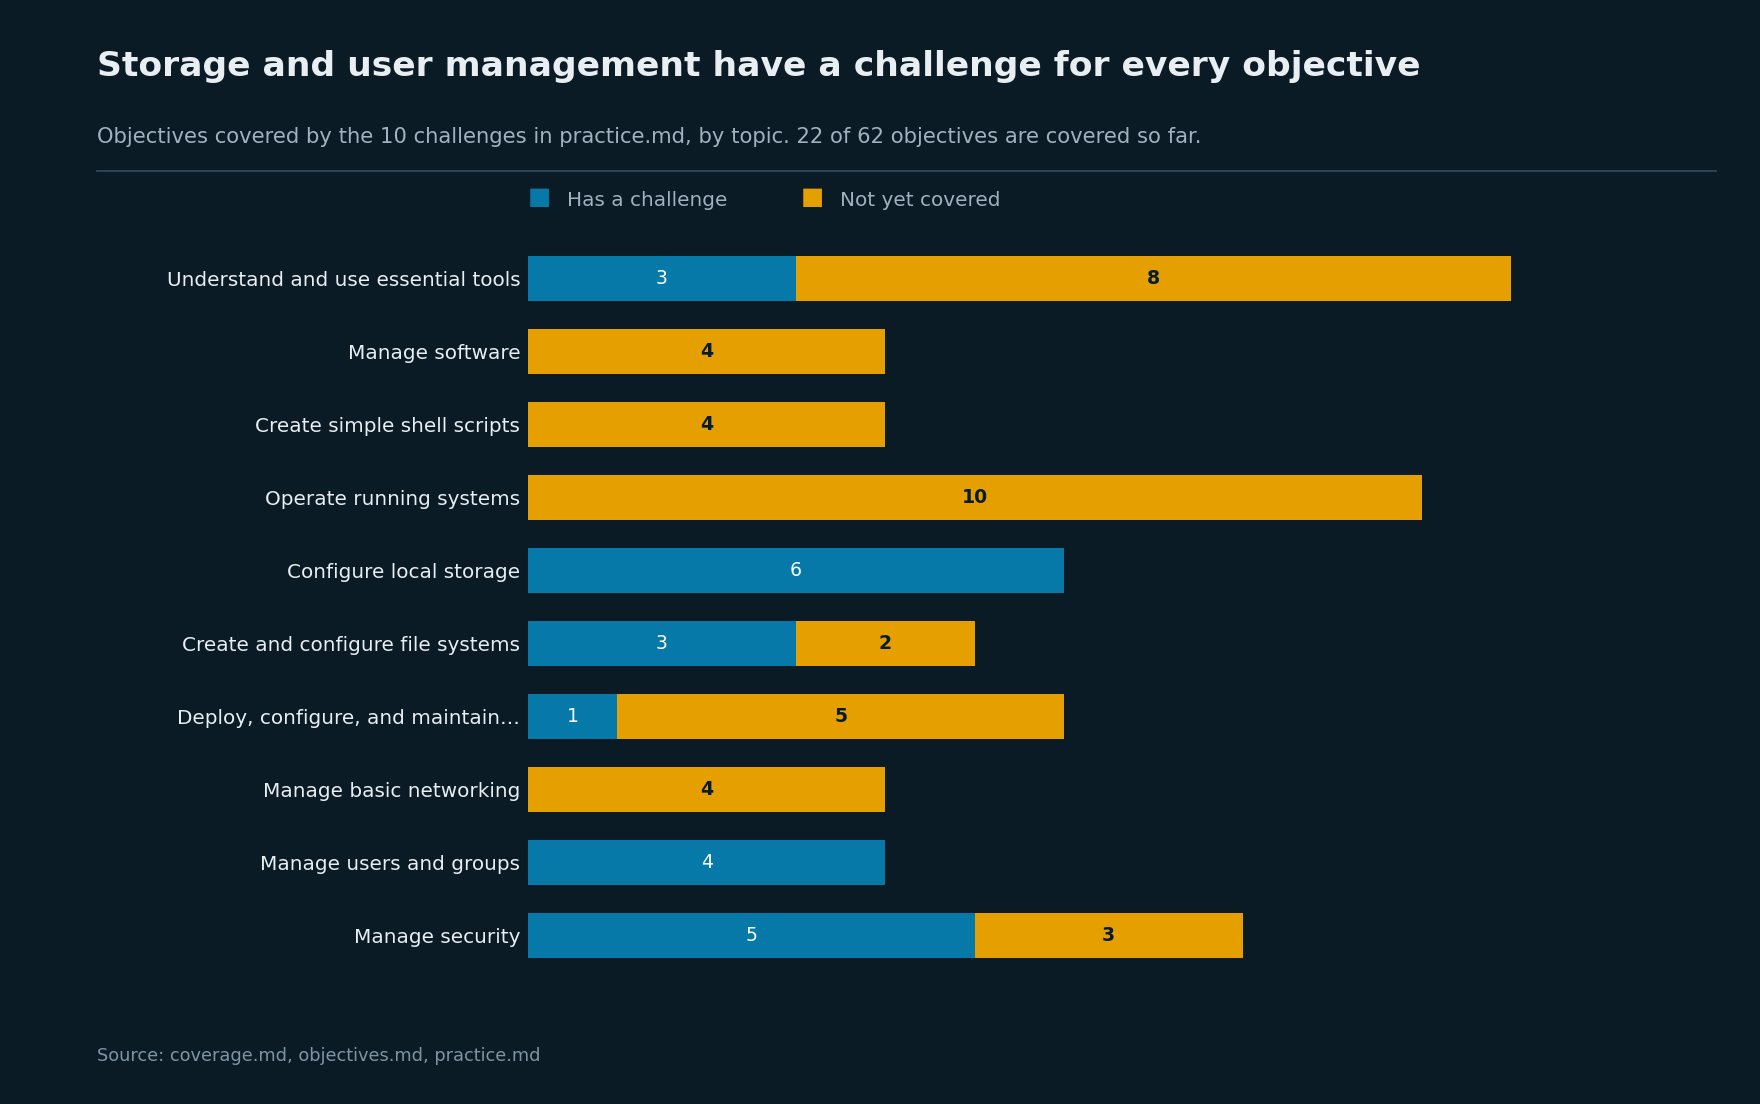
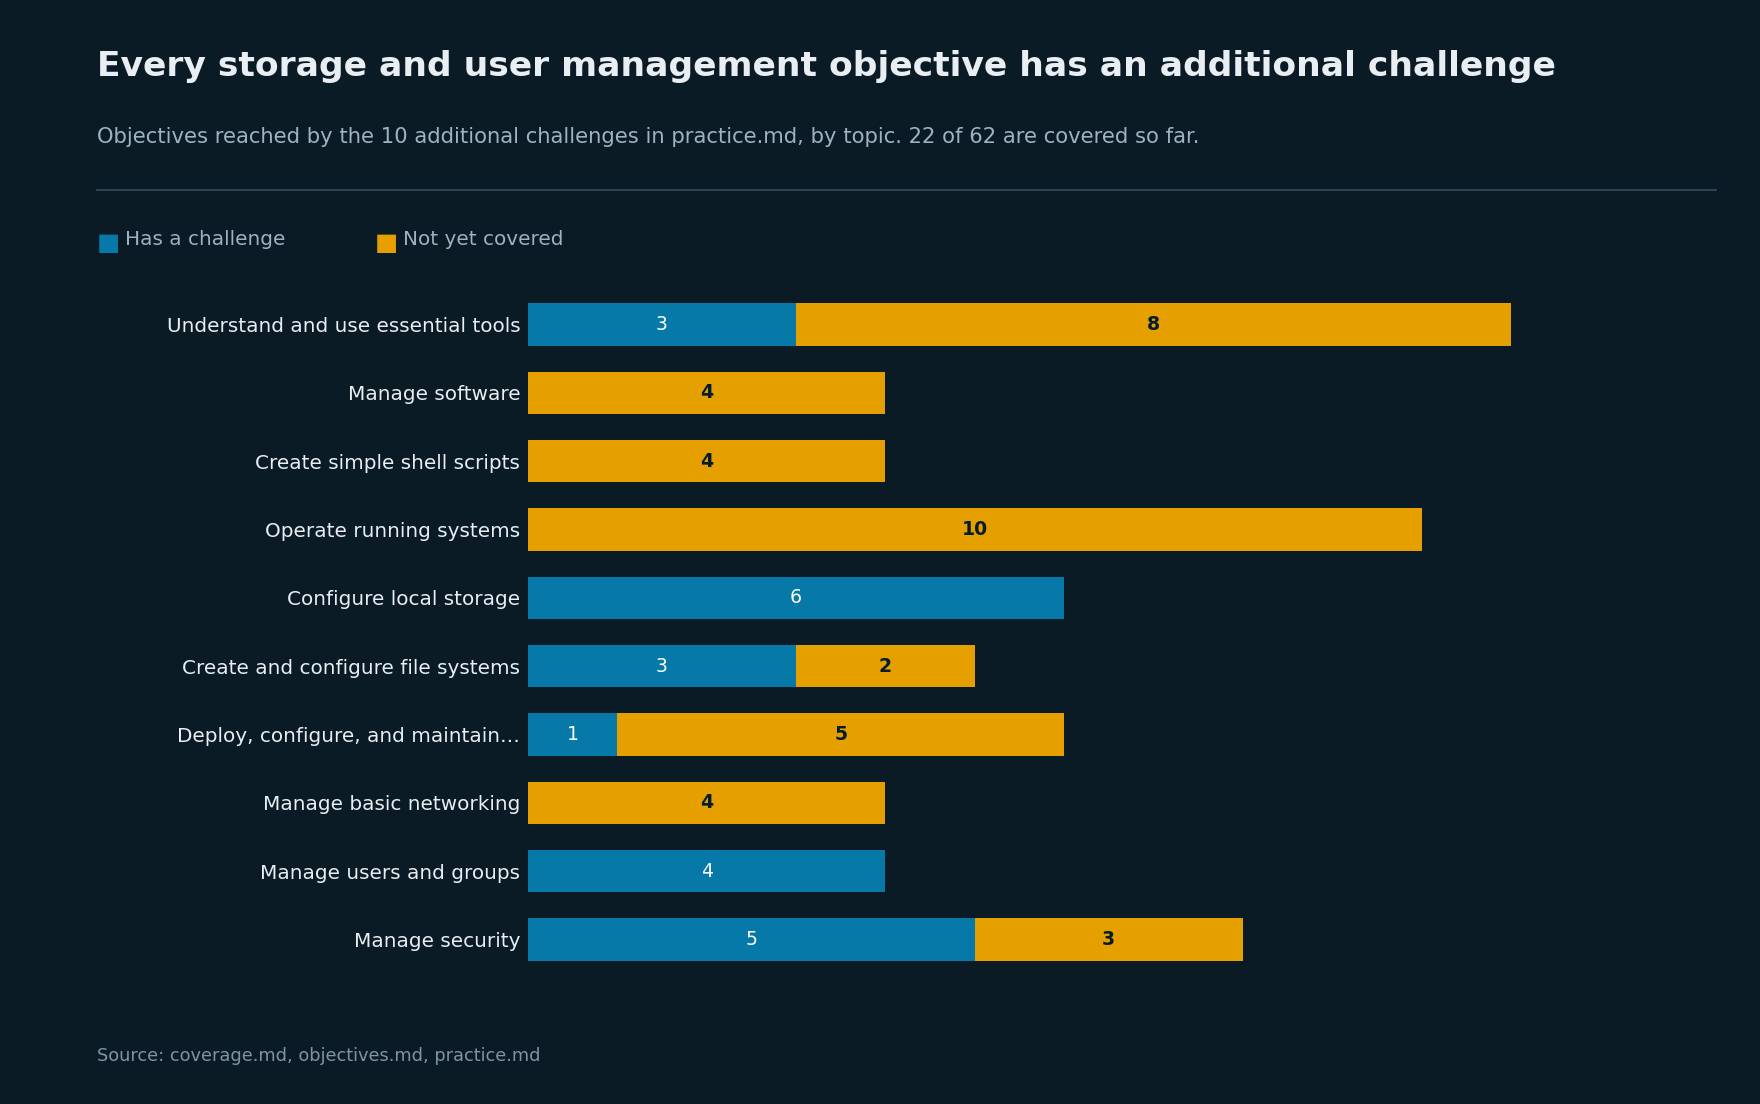
Call the challenges what practice.md calls them
Practice starts in week 3 was not true. The guided exercises start in week 1.
What starts in week 3 is the additional practice, which is what practice.md
calls itself. Both charts that mention challenges now say so, and the timing
chart says plainly that these sit on top of the guided exercises.

Two layout faults came out while checking. The subtitle ran off the right edge
of the canvas, because nothing wrapped it and matplotlib does not warn. It wraps
now, and the rule under the title follows however many lines it takes.

The keys were placed by hand at fixed positions, so a longer label overlapped
the next swatch. They are now spaced by label length.

Dropped the comma in the README heading.

Copilot-Session: 42281fb8-6781-4982-aa24-2cdbe7877579

Changed region(s): [[0.0938, 0.2156, 0.875, 0.8623], [0.0625, 0.0308, 0.9688, 0.1848], [0.0625, 0.2156, 0.0938, 0.2464]]

diff --git a/README.md b/README.md
@@ -19,7 +19,7 @@ Enterprise Linux 10.
 
 I will add more as the semester goes on.
 
-## What is taught, and when
+## What is taught and when
 
 <picture>
   <source media="(prefers-color-scheme: dark)" srcset="images/01-what-each-week-teaches-dark.png">
@@ -33,7 +33,7 @@ I will add more as the semester goes on.
 
 <picture>
   <source media="(prefers-color-scheme: dark)" srcset="images/03-when-you-can-practise-dark.png">
-  <img alt="The week each practice challenge becomes possible. The first opens in week 3 and all ten are open by week 11." src="images/03-when-you-can-practise-light.png">
+  <img alt="The week each additional practice challenge becomes possible. The first opens in week 3 and all ten are open by week 11. The guided exercises run from week 1." src="images/03-when-you-can-practise-light.png">
 </picture>
 
 These are drawn from the files above. They follow the material, so nobody has to
